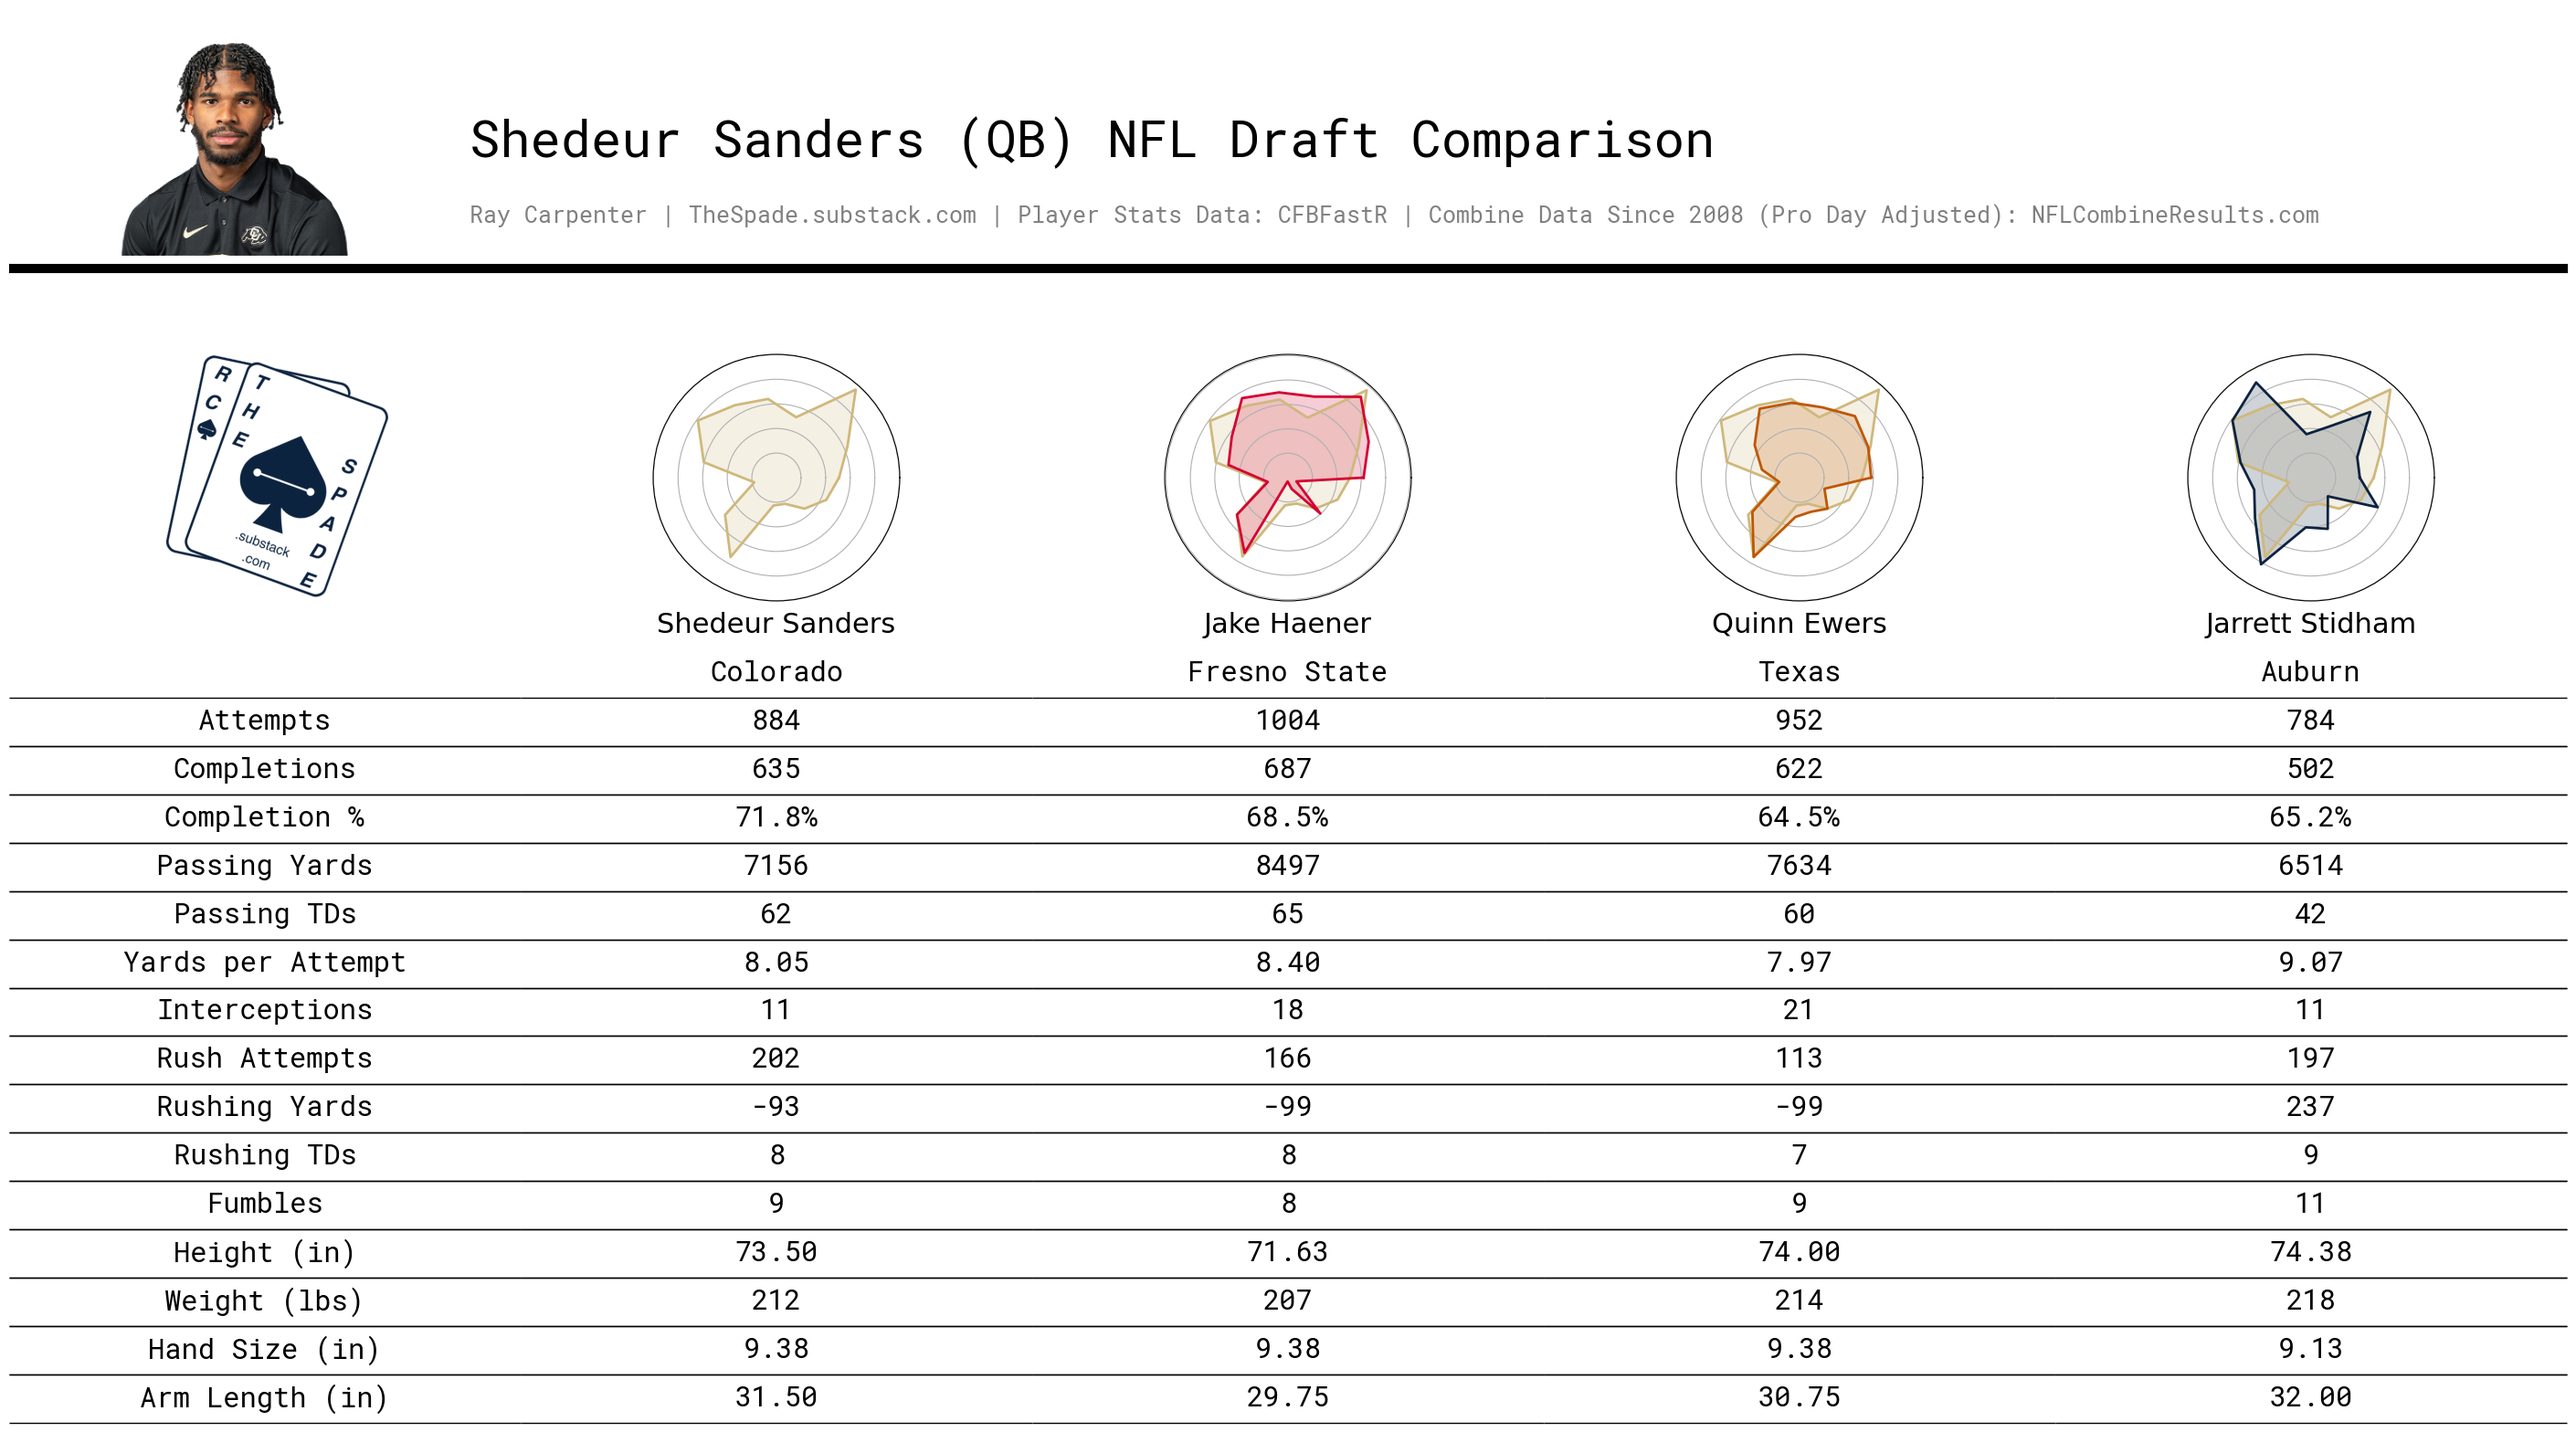
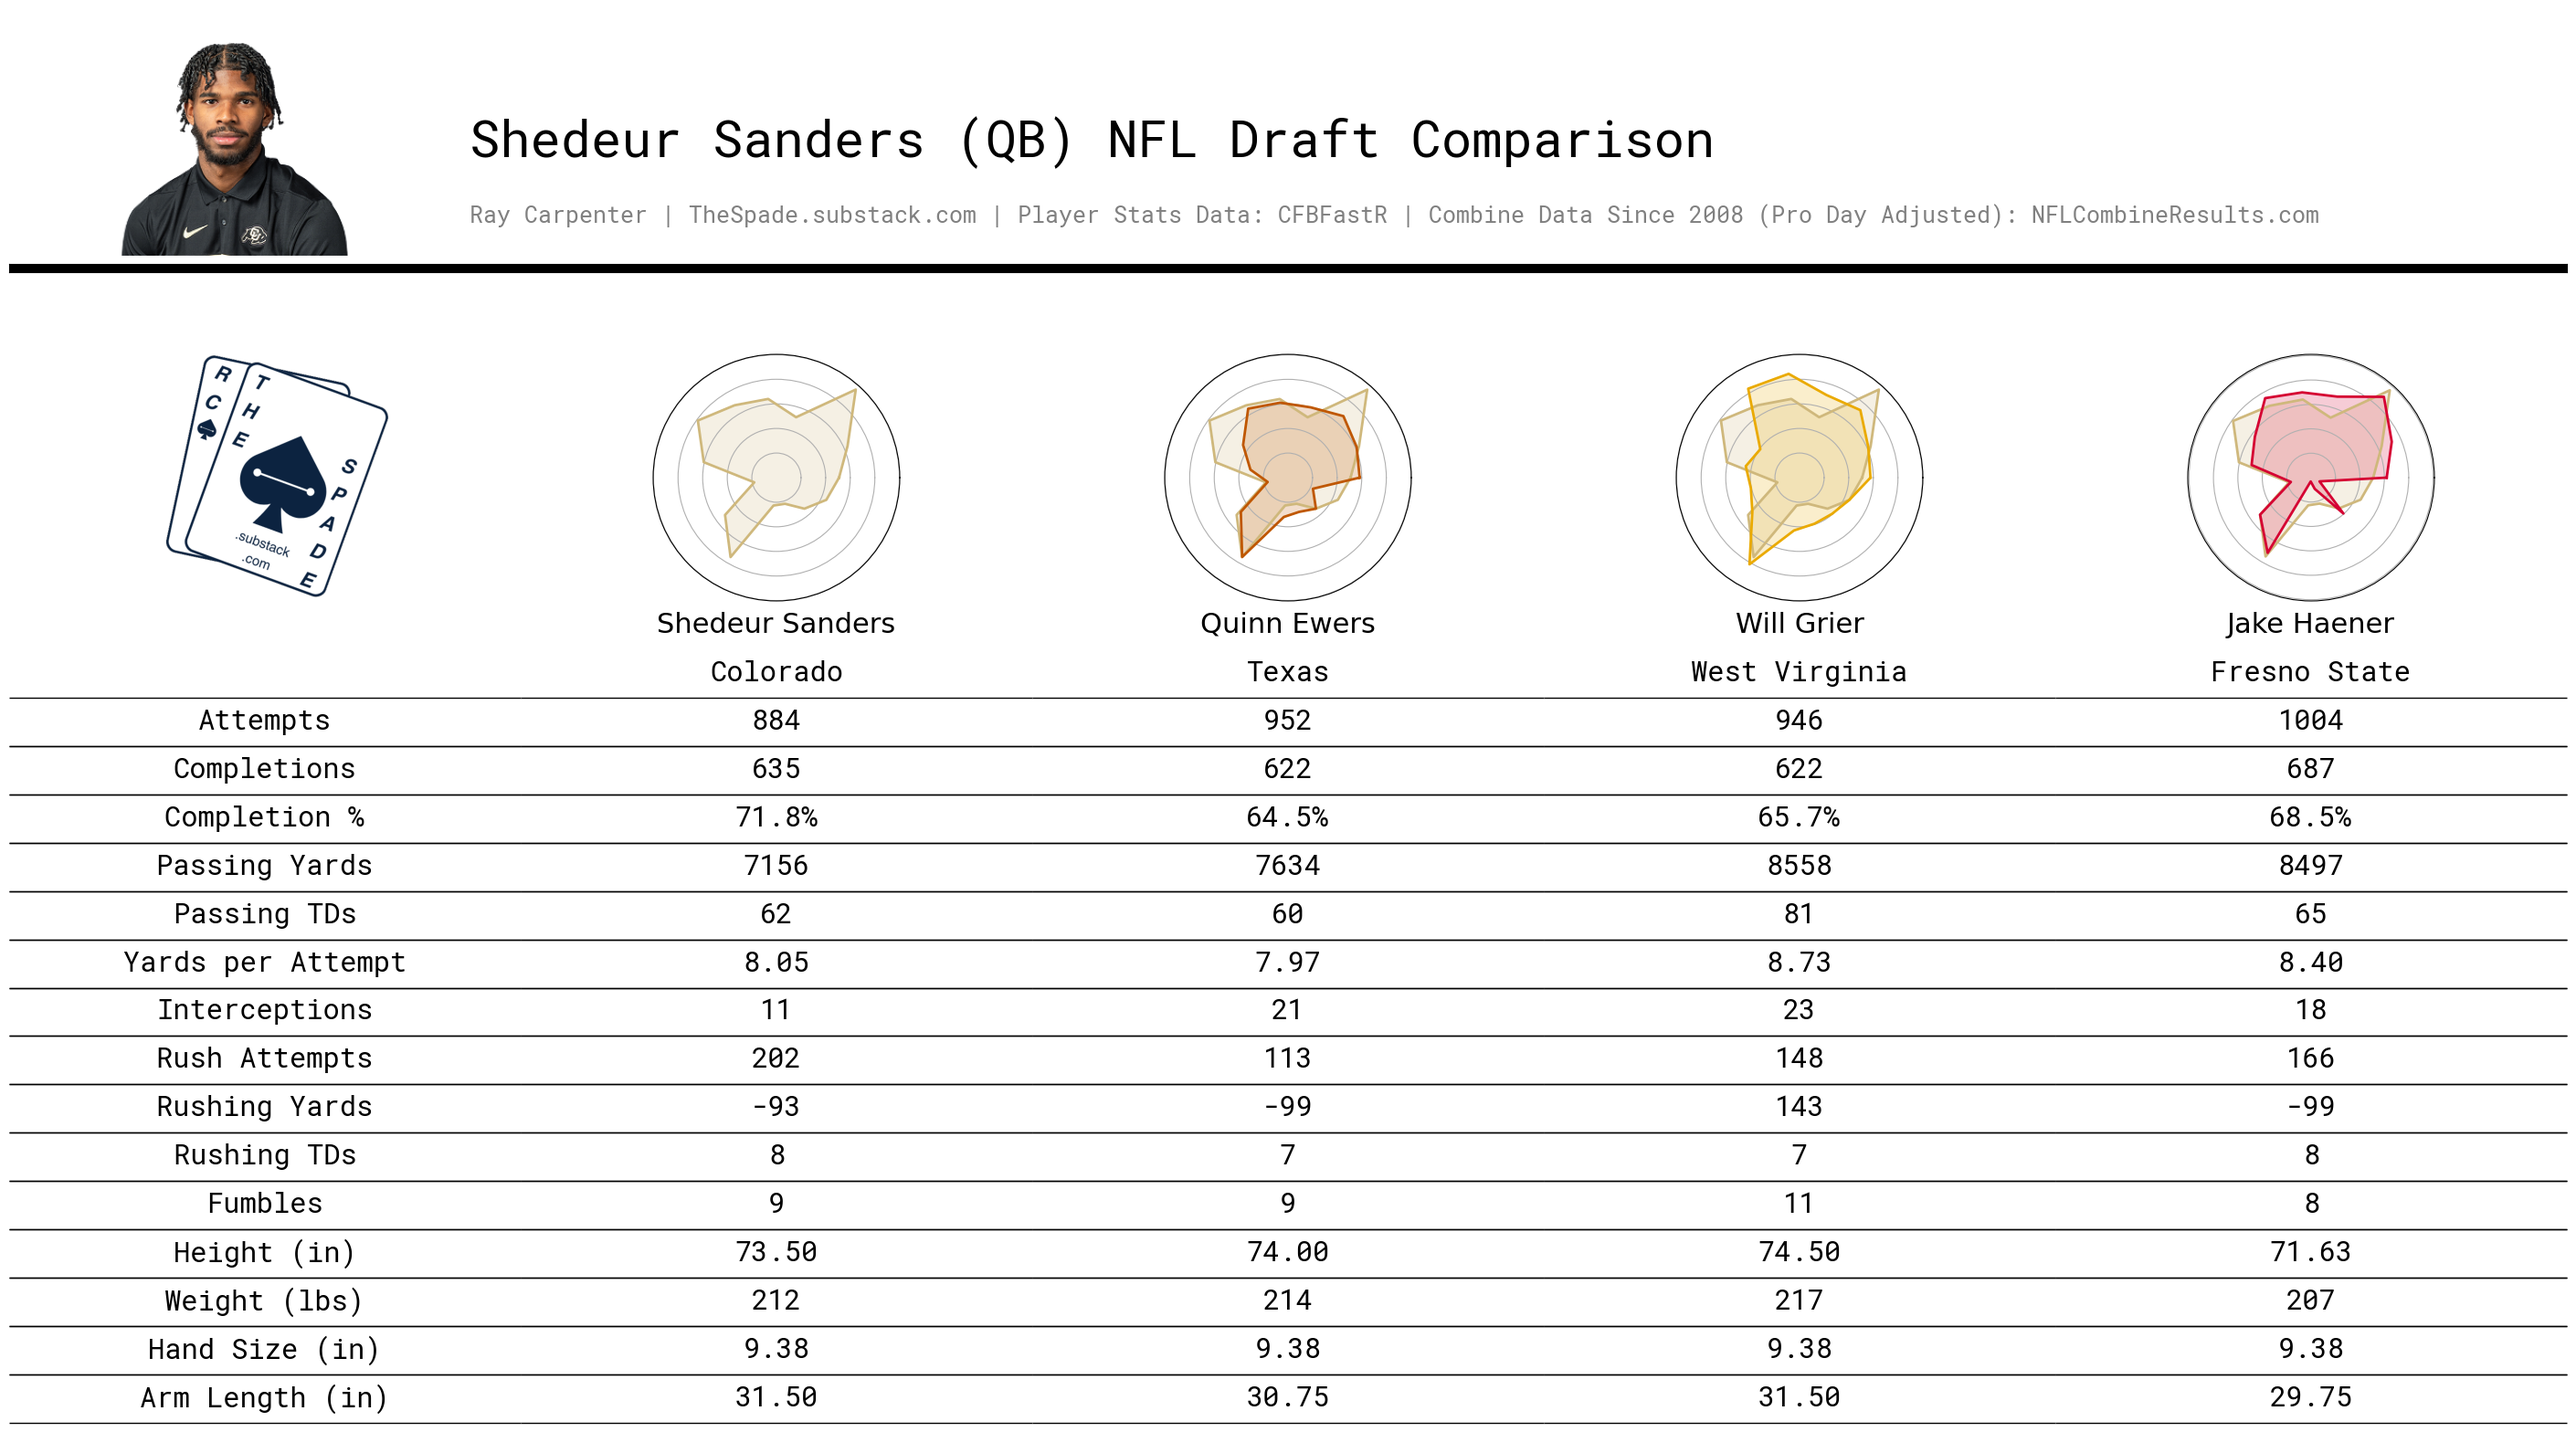
playing with PCA

diff --git a/data_processor.py b/data_processor.py
@@ -3,6 +3,7 @@ import pandas as pd
 from scipy.stats import rankdata
 from config import POSITION_BASELINES, COMBINE_STATS_PATH
 from sklearn.neighbors import NearestNeighbors
+from sklearn.decomposition import PCA
 
 class DataProcessor:
     def __init__(self, stats_df: pd.DataFrame):
@@ -17,9 +18,10 @@ class DataProcessor:
         self.radar_data = None
         self.valid_metrics = None
         self.player_position = None
-        self.non_round_metrics = ["Height (in)", "Hand Size (in)", "Arm Length (in)", "40 Yard","3Cone","Shuttle"]
+        self.non_round_metrics = ["Height (in)", "Hand Size (in)", "Arm Length (in)", "40 Yard", "3Cone", "Shuttle"]
 
-    def process(self, input_player: str):
+    def _load_combine_data(self):
+        """Load combine data from the specified path."""
         combine_columns = [
             "Height (in)", "Weight (lbs)", "Hand Size (in)", "Arm Length (in)",
             "Wonderlic", "40 Yard", "Bench Press", "Vert Leap (in)",
@@ -27,30 +29,17 @@ class DataProcessor:
         ]
         try:
             combine_df = pd.read_csv(COMBINE_STATS_PATH, usecols=["athlete_id"] + combine_columns)
+            return combine_df
         except Exception as e:
             print("Error reading combine data:", e)
-            combine_df = pd.DataFrame()
+            return pd.DataFrame()
 
-        if not combine_df.empty:
-            df = pd.merge(self.stats_df, combine_df, on="athlete_id", how="left")
-        else:
-            df = self.stats_df.copy()
-
-        if input_player not in df["player"].unique():
-            raise ValueError(f"Input player {input_player} not found in data.")
-
-        player_position = df.loc[df["player"] == input_player, "POS_GP"].values[0]
-        if player_position in ["FS", "SS"]:
-            position_key = "S"
-            df = df[df["POS_GP"].isin(["FS", "SS"])]
-        else:
-            position_key = player_position
-            df = df[df["POS_GP"] == player_position]
-
+    def _filter_and_aggregate_data(self, df: pd.DataFrame, input_player: str, position_key: str):
+        """Filter and aggregate data based on player position."""
         baseline_metrics = POSITION_BASELINES.get(position_key, [])
         valid_metrics = [m for m in baseline_metrics if m in df.columns]
 
-        for stat in combine_columns:
+        for stat in self.non_round_metrics:
             if stat in df.columns:
                 player_val = df.loc[df["player"] == input_player, stat]
                 if not player_val.empty and pd.notnull(player_val.iloc[0]) and stat not in valid_metrics:
@@ -63,24 +52,16 @@ class DataProcessor:
         if not valid_metrics:
             raise ValueError(f"No valid metrics found for position: {position_key}")
 
-        for stat in combine_columns:
-            if stat in df.columns:
-                df[stat] = pd.to_numeric(df[stat], errors="coerce")
-        numeric_cols = df.select_dtypes(include="number").columns.tolist()
+        # Convert all metrics to numeric
+        df[valid_metrics] = df[valid_metrics].apply(pd.to_numeric, errors="coerce").fillna(0)
 
-        agg_funcs = {col: "sum" for col in numeric_cols if col not in combine_columns}
-
-        if "interceptions_avg" in agg_funcs:
-            agg_funcs["interceptions_avg"] = "mean"
-        if "passing_ypa" in agg_funcs:
-            agg_funcs["passing_ypa"] = "mean"
-
-        for stat in combine_columns:
-            if stat in df.columns:
-                agg_funcs[stat] = "first"
+        # Aggregate data
+        agg_funcs = {col: "sum" for col in df.select_dtypes(include="number").columns if col not in self.non_round_metrics}
+        agg_funcs.update({col: "first" for col in self.non_round_metrics if col in df.columns})
 
         df_sum = df.groupby("player").agg(agg_funcs).reset_index()
 
+        # Calculate additional metrics
         if "passing_pct" in df.columns:
             passing_pct_avg = df.groupby("player")["passing_pct"].mean().reset_index()
             df_sum = df_sum.merge(passing_pct_avg, on="player", how="left", suffixes=("", "_mean"))
@@ -103,30 +84,89 @@ class DataProcessor:
         df_sum[valid_metrics] = df_sum[valid_metrics].apply(pd.to_numeric, errors="coerce").fillna(0)
         df_sum = df_sum.drop(columns=["POS_GP"], errors="ignore")
 
-        self.processed_df = df_sum
-        self.valid_metrics = valid_metrics
-       
-        reverse_metrics = {"passing_int", "40 Yard", "3Cone", "Shuttle","Fumbles"}
-        self.percentile_df = df_sum.copy()
+        return df_sum, valid_metrics
+
+    def _calculate_percentiles(self, df_sum: pd.DataFrame, valid_metrics: list):
+        """Calculate percentiles for each metric."""
+        reverse_metrics = {"passing_int", "40 Yard", "3Cone", "Shuttle", "Fumbles"}
+        percentile_df = df_sum.copy()
+
         for metric in valid_metrics:
             percentile_values = rankdata(df_sum[metric], method="average") / len(df_sum) * 100
             if metric in reverse_metrics:
-                self.percentile_df[metric] = 100 - percentile_values
+                percentile_df[metric] = 100 - percentile_values
             else:
-                self.percentile_df[metric] = percentile_values
+                percentile_df[metric] = percentile_values
 
+        return percentile_df
+
+    def _apply_pca(self, percentile_df: pd.DataFrame, valid_metrics: list):
+        """Apply PCA to the percentile data."""
+        pca = PCA(n_components=0.95)  # Retain 95% of the variance
+        pca_features = pca.fit_transform(percentile_df[valid_metrics])
+
+        # Debug: Print PCA details
+        print("\nPCA Components Shape:", pca.components_.shape)
+        print("Explained Variance Ratio:", pca.explained_variance_ratio_)
+        print("Cumulative Explained Variance:", np.cumsum(pca.explained_variance_ratio_))
+
+        # Print top contributing metrics for each principal component
+        for i, component in enumerate(pca.components_):
+            print(f"\nPrincipal Component {i + 1}:")
+            for metric, weight in zip(valid_metrics, component):
+                print(f"{metric}: {weight:.4f}")
+
+        return pca_features, pca
+
+    def _find_similar_players(self, percentile_df: pd.DataFrame, pca_features, input_player: str):
+        """Find similar players using KNN on PCA-transformed features."""
         knn = NearestNeighbors(n_neighbors=4, metric='euclidean')
-        knn.fit(self.percentile_df[valid_metrics].values)
-        input_index = self.percentile_df[self.percentile_df["player"] == input_player].index[0]
-        distances, indices = knn.kneighbors(
-            self.percentile_df.loc[input_index, valid_metrics].values.reshape(1, -1)
-        )
+        knn.fit(pca_features)
+
+        input_index = percentile_df[percentile_df["player"] == input_player].index[0]
+        distances, indices = knn.kneighbors(pca_features[input_index].reshape(1, -1))
+
+        # Debug: Print KNN results
+        print("\nKNN Distances:", distances)
+        print("KNN Indices:", indices)
+
         neighbor_indices = list(indices[0])
         if input_index in neighbor_indices:
             neighbor_indices.remove(input_index)
-        top3_players = self.percentile_df.loc[neighbor_indices, "player"].tolist()
-        self.comparison_players = [input_player] + top3_players
+        top3_players = percentile_df.loc[neighbor_indices, "player"].tolist()
 
+        return [input_player] + top3_players
+
+    def process(self, input_player: str):
+        """Process the data for the input player."""
+        # Load combine data
+        combine_df = self._load_combine_data()
+        df = pd.merge(self.stats_df, combine_df, on="athlete_id", how="left") if not combine_df.empty else self.stats_df.copy()
+
+        # Validate input player
+        if input_player not in df["player"].unique():
+            raise ValueError(f"Input player {input_player} not found in data.")
+
+        # Determine player position
+        player_position = df.loc[df["player"] == input_player, "POS_GP"].values[0]
+        position_key = "S" if player_position in ["FS", "SS"] else player_position
+        df = df[df["POS_GP"].isin(["FS", "SS"])] if player_position in ["FS", "SS"] else df[df["POS_GP"] == player_position]
+
+        # Filter and aggregate data
+        df_sum, valid_metrics = self._filter_and_aggregate_data(df, input_player, position_key)
+        self.processed_df = df_sum
+        self.valid_metrics = valid_metrics
+
+        # Calculate percentiles
+        self.percentile_df = self._calculate_percentiles(df_sum, valid_metrics)
+
+        # Apply PCA
+        pca_features, pca = self._apply_pca(self.percentile_df, valid_metrics)
+
+        # Find similar players
+        self.comparison_players = self._find_similar_players(self.percentile_df, pca_features, input_player)
+
+        # Prepare radar data
         self.radar_data = [
             self.percentile_df[self.percentile_df["player"] == p][valid_metrics].iloc[0].values
             for p in self.comparison_players
